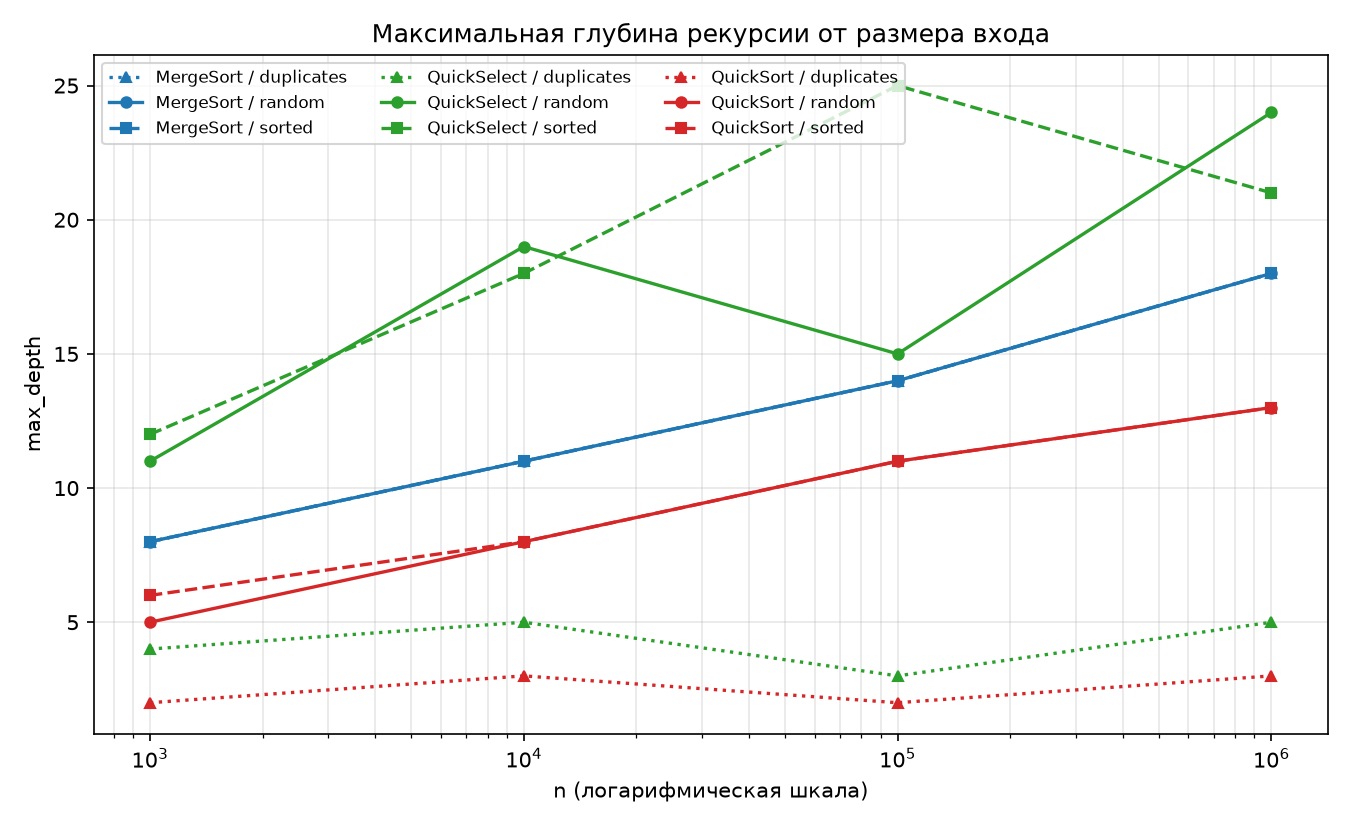
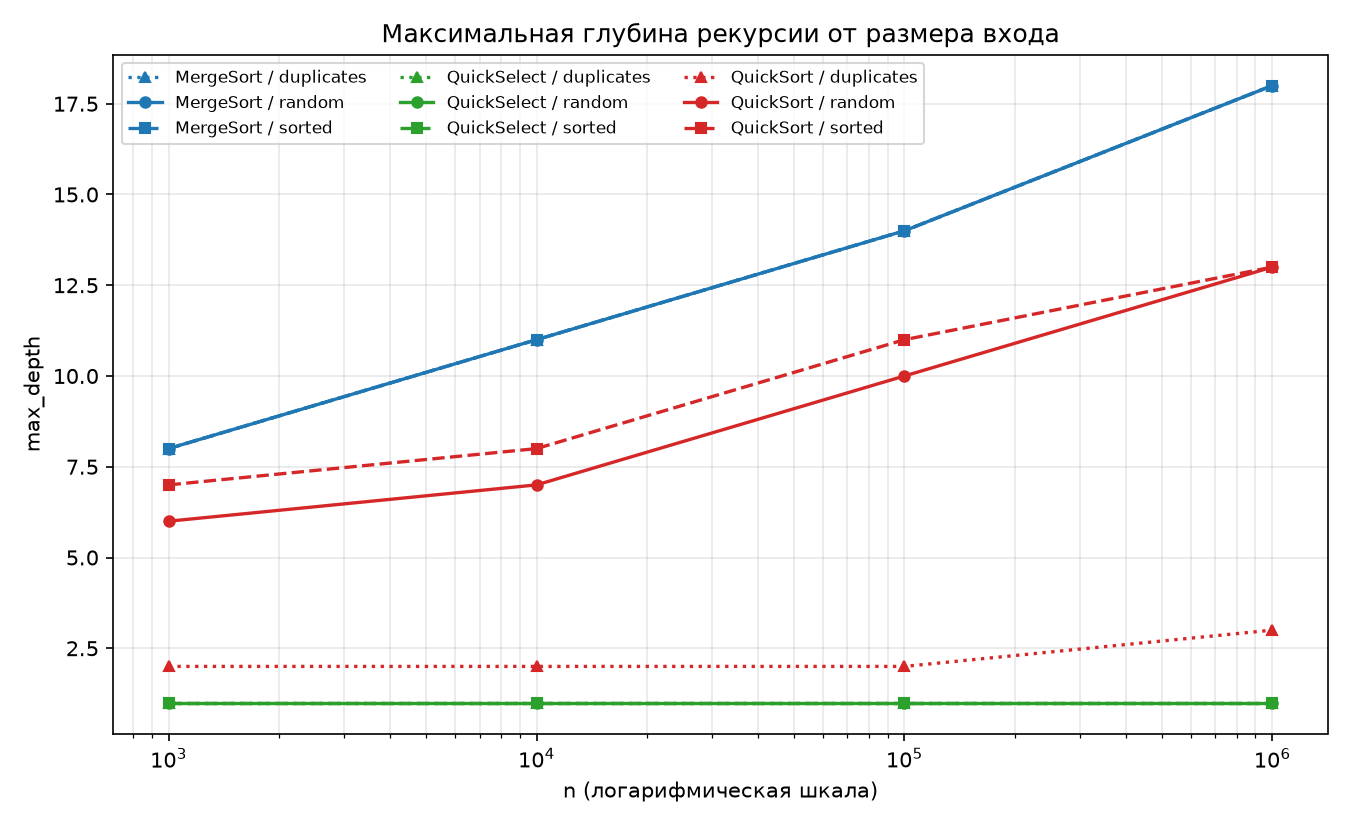
fix: report real stack depth for quickselect and time the mergesort buffer

diff --git a/src/main/java/QuickSelect.java b/src/main/java/QuickSelect.java
@@ -13,10 +13,11 @@ public class QuickSelect {
 
         metrics.startTimer();
         int lo = 0, hi = arr.length - 1;
-        int depth = 1;
+
+        // Алгоритм итеративный: он использует один кадр стека независимо от n.
+        metrics.updateDepth(1);
 
         while (lo <= hi) {
-            metrics.updateDepth(depth++);
             int[] p = QuickSort.partition(arr, lo, hi, metrics);
             if (k >= p[0] && k <= p[1]) {
                 metrics.stopTimer();

diff --git a/src/main/java/MergeSort.java b/src/main/java/MergeSort.java
@@ -3,8 +3,8 @@ public class MergeSort {
 
     public static void sort(int[] arr, Metrics metrics) {
         if (arr == null || arr.length <= 1) return;
-        int[] aux = new int[arr.length];
         metrics.startTimer();
+        int[] aux = new int[arr.length];
         sort(arr, aux, 0, arr.length - 1, metrics, 1);
         metrics.stopTimer();
     }

diff --git a/src/main/java/QuickSort.java b/src/main/java/QuickSort.java
@@ -25,7 +25,7 @@ public class QuickSort {
         }
     }
 
-    protected static int[] partition(int[] arr, int lo, int hi, Metrics metrics) {
+    static int[] partition(int[] arr, int lo, int hi, Metrics metrics) {
         int pivotIndex = lo + RAND.nextInt(hi - lo + 1);
         swap(arr, lo, pivotIndex);
         int pivot = arr[lo];

diff --git a/REPORT.md b/REPORT.md
@@ -28,7 +28,7 @@ at the same speed, so this is **case 2** of the Master Theorem. The result is
 **Θ(n log n)**.
 
 The measurements show the same thing. The ratio `comparisons / (n·log2 n)` stays
-between 0.95 and 1.00 on random input for all four sizes. So the real cost follows
+between 0.96 and 1.00 on random input for all four sizes. So the real cost follows
 n·log2 n.
 
 ### QuickSort (assuming a balanced split)
@@ -45,7 +45,7 @@ proportion, and even a bad cut still removes a large part of the elements. For
 example, a 1:9 cut gives a depth that is only a constant times bigger than log2 n.
 To get the quadratic worst case, bad cuts must happen many times in a row, and this
 becomes less and less probable. In theory the average number of comparisons is about
-1.39·n·log2 n. Our ratio on random input is 1.70–2.14, a little higher, because the
+1.39·n·log2 n. Our ratio on random input is 1.54–1.93, a little higher, because the
 3-way partition makes up to two comparisons per element instead of one.
 
 ### QuickSelect (assuming a balanced split)
@@ -60,7 +60,7 @@ faster than 1. This is **case 3**, and the result is **Θ(n)**. The first level 
 most of the work.
 
 It is easy to see why: the work is n + n/2 + n/4 + ... = 2n, which is linear. The
-measurements agree. The value `comparisons / n` stays between 3.6 and 7.3 and does
+measurements agree. The value `comparisons / n` stays between 2.1 and 7.1 and does
 not grow, even when n becomes 1000 times bigger.
 
 ---
@@ -74,23 +74,25 @@ Full data is in `results.csv`.
 
 | n | MS random | MS sorted | MS dup | QS random | QS sorted | QS dup | Sel random | Sel sorted | Sel dup |
 |---|---|---|---|---|---|---|---|---|---|
-| 1 000 | 0.397 | 0.132 | 0.208 | 0.404 | 0.323 | 0.463 | 0.082 | 0.017 | 0.082 |
-| 10 000 | 5.072 | 0.320 | 0.666 | 5.409 | 2.439 | 0.200 | 0.762 | 0.103 | 0.156 |
-| 100 000 | 11.045 | 3.194 | 6.391 | 12.336 | 8.720 | 1.954 | 1.554 | 0.589 | 1.251 |
-| 1 000 000 | 128.661 | 44.354 | 77.186 | 152.365 | 100.945 | 19.657 | 16.478 | 7.385 | 13.333 |
+| 1 000 | 0.341 | 0.120 | 0.239 | 0.422 | 0.306 | 0.427 | 0.096 | 0.023 | 0.048 |
+| 10 000 | 4.815 | 0.938 | 0.692 | 4.711 | 0.856 | 0.188 | 0.664 | 0.063 | 0.105 |
+| 100 000 | 10.373 | 3.330 | 6.372 | 12.177 | 8.696 | 1.988 | 1.644 | 0.776 | 1.294 |
+| 1 000 000 | 130.641 | 48.643 | 75.401 | 171.311 | 102.549 | 20.135 | 20.395 | 9.098 | 10.188 |
+
 
 ### Maximum recursion depth
 
 | n | MS random | MS sorted | MS dup | QS random | QS sorted | QS dup | Sel random | Sel sorted | Sel dup |
 |---|---|---|---|---|---|---|---|---|---|
-| 1 000 | 8 | 8 | 8 | 5 | 6 | 2 | 11 | 12 | 4 |
-| 10 000 | 11 | 11 | 11 | 8 | 8 | 3 | 19 | 18 | 5 |
-| 100 000 | 14 | 14 | 14 | 11 | 11 | 2 | 15 | 25 | 3 |
-| 1 000 000 | 18 | 18 | 18 | 13 | 13 | 3 | 24 | 21 | 5 |
+| 1 000 | 8 | 8 | 8 | 6 | 7 | 2 | 1 | 1 | 1 |
+| 10 000 | 11 | 11 | 11 | 7 | 8 | 2 | 1 | 1 | 1 |
+| 100 000 | 14 | 14 | 14 | 10 | 11 | 2 | 1 | 1 | 1 |
+| 1 000 000 | 18 | 18 | 18 | 13 | 13 | 3 | 1 | 1 | 1 |
+
 
 The limit from the task, `2·log2(n)`, is 19 / 26 / 33 / 39 for the four sizes.
-For QuickSelect this column counts loop iterations, not stack depth: the algorithm
-is iterative and always uses a single stack frame.
+QuickSelect always shows 1, because it is written as a loop and not as a recursion,
+so it uses one stack frame for any size of the input.
 
 ### Ratio (Θ check)
 
@@ -98,10 +100,11 @@ For the sorts: `comparisons / (n·log2 n)`. For QuickSelect: `comparisons / n`.
 
 | n | MS random | MS sorted | MS dup | QS random | QS sorted | QS dup | Sel random | Sel sorted | Sel dup |
 |---|---|---|---|---|---|---|---|---|---|
-| 1 000 | 0.95 | 0.43 | 0.91 | 2.14 | 1.57 | 0.51 | 3.92 | 4.07 | 3.61 |
-| 10 000 | 0.96 | 0.45 | 0.91 | 1.70 | 1.78 | 0.38 | 6.64 | 7.33 | 4.02 |
-| 100 000 | 0.99 | 0.45 | 0.94 | 1.80 | 1.88 | 0.34 | 4.80 | 4.55 | 3.69 |
-| 1 000 000 | 1.00 | 0.46 | 0.95 | 1.86 | 1.81 | 0.25 | 4.33 | 5.30 | 4.20 |
+| 1 000 | 0.96 | 0.43 | 0.91 | 1.54 | 1.60 | 0.55 | 4.41 | 5.95 | 2.10 |
+| 10 000 | 0.96 | 0.45 | 0.91 | 1.79 | 1.73 | 0.40 | 5.06 | 3.90 | 3.00 |
+| 100 000 | 0.99 | 0.45 | 0.94 | 1.90 | 1.80 | 0.39 | 6.55 | 4.42 | 3.69 |
+| 1 000 000 | 1.00 | 0.46 | 0.95 | 1.93 | 1.84 | 0.26 | 7.10 | 4.85 | 2.20 |
+
 
 ---
 
@@ -121,32 +124,33 @@ Bounds of the ratio for every series (over the four sizes):
 
 | series | c1 (min) | c2 (max) |
 |---|---|---|
-| MergeSort / random | 0.95 | 1.00 |
+| MergeSort / random | 0.96 | 1.00 |
 | MergeSort / sorted | 0.43 | 0.46 |
 | MergeSort / duplicates | 0.91 | 0.95 |
-| QuickSort / random | 1.70 | 2.14 |
-| QuickSort / sorted | 1.57 | 1.88 |
-| QuickSort / duplicates | 0.25 | 0.51 |
-| QuickSelect / random | 3.92 | 6.64 |
-| QuickSelect / sorted | 4.07 | 7.33 |
-| QuickSelect / duplicates | 3.61 | 4.20 |
+| QuickSort / random | 1.54 | 1.93 |
+| QuickSort / sorted | 1.60 | 1.84 |
+| QuickSort / duplicates | 0.26 | 0.55 |
+| QuickSelect / random | 4.41 | 7.10 |
+| QuickSelect / sorted | 3.90 | 5.95 |
+| QuickSelect / duplicates | 2.10 | 3.69 |
+
 
 The definition of Θ needs constants c1, c2 and n0, so that
 c1·g(n) ≤ f(n) ≤ c2·g(n) for all n ≥ n0. Here f(n) is the number of comparisons we
 measured, and g(n) is n·log2 n for the sorts and n for QuickSelect.
 
 For MergeSort the ratio is almost constant from the smallest size. So n0 = 1000,
-c1 = 0.95 and c2 = 1.00 on random input. The line is very flat, so the bound is
+c1 = 0.96 and c2 = 1.00 on random input. The line is very flat, so the bound is
 tight and we can write Θ(n log n) and not only O(n log n). The sorted and the
 duplicate series are also flat, but on a different level (about 0.45 and 0.93). This
 means that the type of input changes the constant, but not the growth.
 
-For QuickSort the ratio is stable from n = 10 000. So n0 = 10 000, c1 = 1.70 and
-c2 = 1.88 on random input. At n = 1000 the value is 2.14, a little outside this
-band. This is normal: on a small array one bad pivot changes the average a lot.
+For QuickSort the ratio is stable from n = 10 000. So n0 = 10 000, c1 = 1.79 and
+c2 = 1.93 on random input. At n = 1000 the value is only 1.54, below this band. This
+is normal: on a small array one lucky or unlucky pivot changes the average a lot.
 
-For QuickSelect the ratio stays between 3.6 and 7.3 and does not grow, so the linear
-bound works with n0 = 1000, c1 = 3.6 and c2 = 7.3. The band is wider than for the
+For QuickSelect the ratio stays between 2.1 and 7.1 and does not grow, so the linear
+bound works with n0 = 1000, c1 = 2.1 and c2 = 7.1. The band is wider than for the
 sorts. This is not a mistake in the measurement. QuickSelect makes only about log n
 partitions in one run, so one bad pivot changes the result a lot. MergeSort always
 does the same work, and QuickSort has many more partitions, so its randomness is
@@ -177,8 +181,8 @@ The constants also depend on the type of input. MergeSort makes about two times
 fewer comparisons on sorted input (ratio 0.46 against 1.00). When every element of
 the left half is smaller than every element of the right half, the merge loop takes
 all elements from the left half first, and then copies the right half without any
-comparison. QuickSort is the fastest of all on duplicates (ratio 0.25 and only
-19.66 ms at n = 1 000 000). The 3-way partition puts all elements equal to the pivot
+comparison. QuickSort is the fastest of all on duplicates (ratio 0.26 and only
+20.14 ms at n = 1 000 000). The 3-way partition puts all elements equal to the pivot
 into the middle part, where they are already in their final place, so they never go
 into the recursion. On an array of equal values the whole array becomes this middle
 part after one pass.
